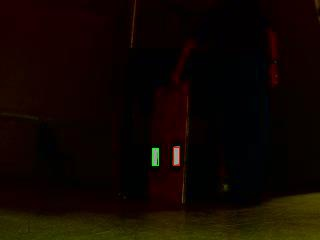
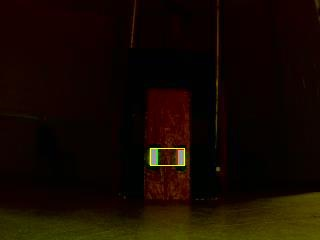
Added improved target statistics.

diff --git a/src/PegTarget.java b/src/PegTarget.java
@@ -1,5 +1,6 @@
 import java.util.ArrayList;
 
+import org.opencv.core.Mat;
 import org.opencv.core.MatOfPoint;
 import org.opencv.core.Point;
 import org.opencv.core.Rect;
@@ -15,6 +16,18 @@ public class PegTarget {
 	private boolean isEstablished;	// Target consists of at least one contour.
 	private boolean isComplete;		// Target consists of both contours.
 	
+	// Vital Target Statistics determined from target contours
+	private int leftEdge;
+	private int rightEdge;
+	private int topEdge;
+	private int bottomEdge;
+	private int maxWidth;
+	private int maxHeight;
+	private int maxArea;
+	private double aspectRatio;
+	private int centreX;
+	
+	
 	/**
 	 * 
 	 * @param candidateCountours
@@ -22,11 +35,73 @@ public class PegTarget {
 	public PegTarget(ArrayList<MatOfPoint> candidateCountours) {
 		isEstablished = false;;
 		isComplete = false;
+		resetStatistics();
 		targetContours = parseContours(candidateCountours);
-		if (targetContours[leftContour] != null) {isEstablished = true;}
-		if (targetContours[rightContour] != null) {isComplete = true;}
+		if (targetContours[rightContour] != null) {
+			// Target consists of TWO contours - So it is complete
+			isEstablished = true;
+			isComplete = true;
+			establishStatistics(targetContours[leftContour],targetContours[rightContour]);
+		} else if (targetContours[leftContour] != null) {
+			// Target consists of ONLY ONE contour - Which is sort of ok but NOT complete
+			// NOTE: In this case the left contour is also the right contour
+			isEstablished = true;
+			isComplete = false;
+			establishStatistics(targetContours[leftContour],targetContours[leftContour]);
+		} else {
+			// Target consists of NO contours - We have NO valid target
+			isEstablished = false;;
+			isComplete = false;
+			resetStatistics();
+		}
 	}
 	
+	private void resetStatistics() {
+		leftEdge = 0;
+		rightEdge = 0;
+		topEdge = 0;
+		bottomEdge = 0;
+		maxWidth = 0;
+		maxHeight = 0;
+		maxArea = 0;
+		aspectRatio = 0.0;
+		centreX = 0;
+	}
+	
+	private void establishStatistics(PegContour leftSide, PegContour rightSide) {
+		resetStatistics();
+		// Remember that Top Left Corner is (0,0) so...
+		// Horizontal position uses X value increasing from left to tight
+		// Vertical position uses Y value increasing from top to bottom
+		Rect lRect = leftSide.getBoundingRectangle();
+		Rect rRect = rightSide.getBoundingRectangle();
+		leftEdge = lRect.x;
+		rightEdge = rRect.x + rRect.width;
+		topEdge = Math.min(lRect.y, rRect.y);
+		bottomEdge = Math.max((lRect.y + lRect.height), (rRect.y + rRect.height));
+		maxWidth = rightEdge - leftEdge;
+		maxHeight = bottomEdge - topEdge;
+		maxArea = maxWidth * maxHeight;
+		aspectRatio = ((double) maxWidth) / ((double) maxHeight);
+		centreX = leftEdge + (maxWidth/2);
+	}
+
+	public void dumpStatistics() {
+		System.out.println("Dumping Target Statistics...");
+		System.out.println(String.format("isEstablished= %s. isComplete= %s", isEstablished,isComplete ));
+		System.out.println(String.format("leftEdge= %s. rightEdge= %s", leftEdge,rightEdge ));
+		System.out.println(String.format("topEdge= %s. bottomEdge= %s", topEdge,bottomEdge ));
+		System.out.println(String.format("maxWidth= %s. maxHeight= %s", maxWidth,maxHeight ));
+		System.out.println(String.format("maxArea= %s. aspectRatio= %s", maxArea,aspectRatio ));
+		System.out.println(String.format("centreX= %s. centreX= %s", centreX,centreX ));
+	}
+	
+	public void drawOnImage(Mat imgSource) {
+		if (isEstablished) {
+			Imgproc.rectangle(imgSource, new Point(leftEdge, topEdge), new Point(rightEdge, bottomEdge), new Scalar(0, 255, 255));
+		}
+	}
+
 	/**
 	 * Parse a raw list of a bunch of image contours to narrow down the list to those contours 
 	 * that match the peg target specifications and then to further narrow down the list to 

diff --git a/src/PegDetection.java b/src/PegDetection.java
@@ -27,7 +27,7 @@ public class PegDetection {
 		System.loadLibrary( Core.NATIVE_LIBRARY_NAME );
 		
 	    System.out.println("\nRunning Peg Detection Pipeline");
-	    inFile = new File("Resources/Peg_215_Angle45_Feb01.jpg");
+	    inFile = new File("Resources/Peg_215_Angle0_Feb01.jpg");
 	    inPath = inFile.getAbsolutePath();
 	    outFile = new File("Resources/pegDetection.jpg");
 	    outPath = outFile.getAbsolutePath();
@@ -39,8 +39,8 @@ public class PegDetection {
         
         //Mat imgSink = pipeline.hslThresholdOutput();
         
-        ArrayList<MatOfPoint> contourDetections = pipeline.findContoursOutput();  // NOTE!!! Should use filtered Mat!
-        //ArrayList<MatOfPoint> contourDetections = pipeline.filterContoursOutput();
+        //ArrayList<MatOfPoint> contourDetections = pipeline.findContoursOutput();  // NOTE!!! Should use filtered Mat!
+        ArrayList<MatOfPoint> contourDetections = pipeline.filterContoursOutput();
 	    System.out.println(String.format("Detected %s contours", contourDetections.size()));
 	    
 	    PegTarget pegTarget = new PegTarget(contourDetections);
@@ -58,6 +58,8 @@ public class PegDetection {
 	    } else {
 	    	System.out.println("Target is NOT Established.");
 	    }
+	    pegTarget.dumpStatistics();
+	    pegTarget.drawOnImage(imgSource);
 	    
 	    // Draw a bounding box around each face.
 	    //for (MatOfPoint contour : contourDetections) {
